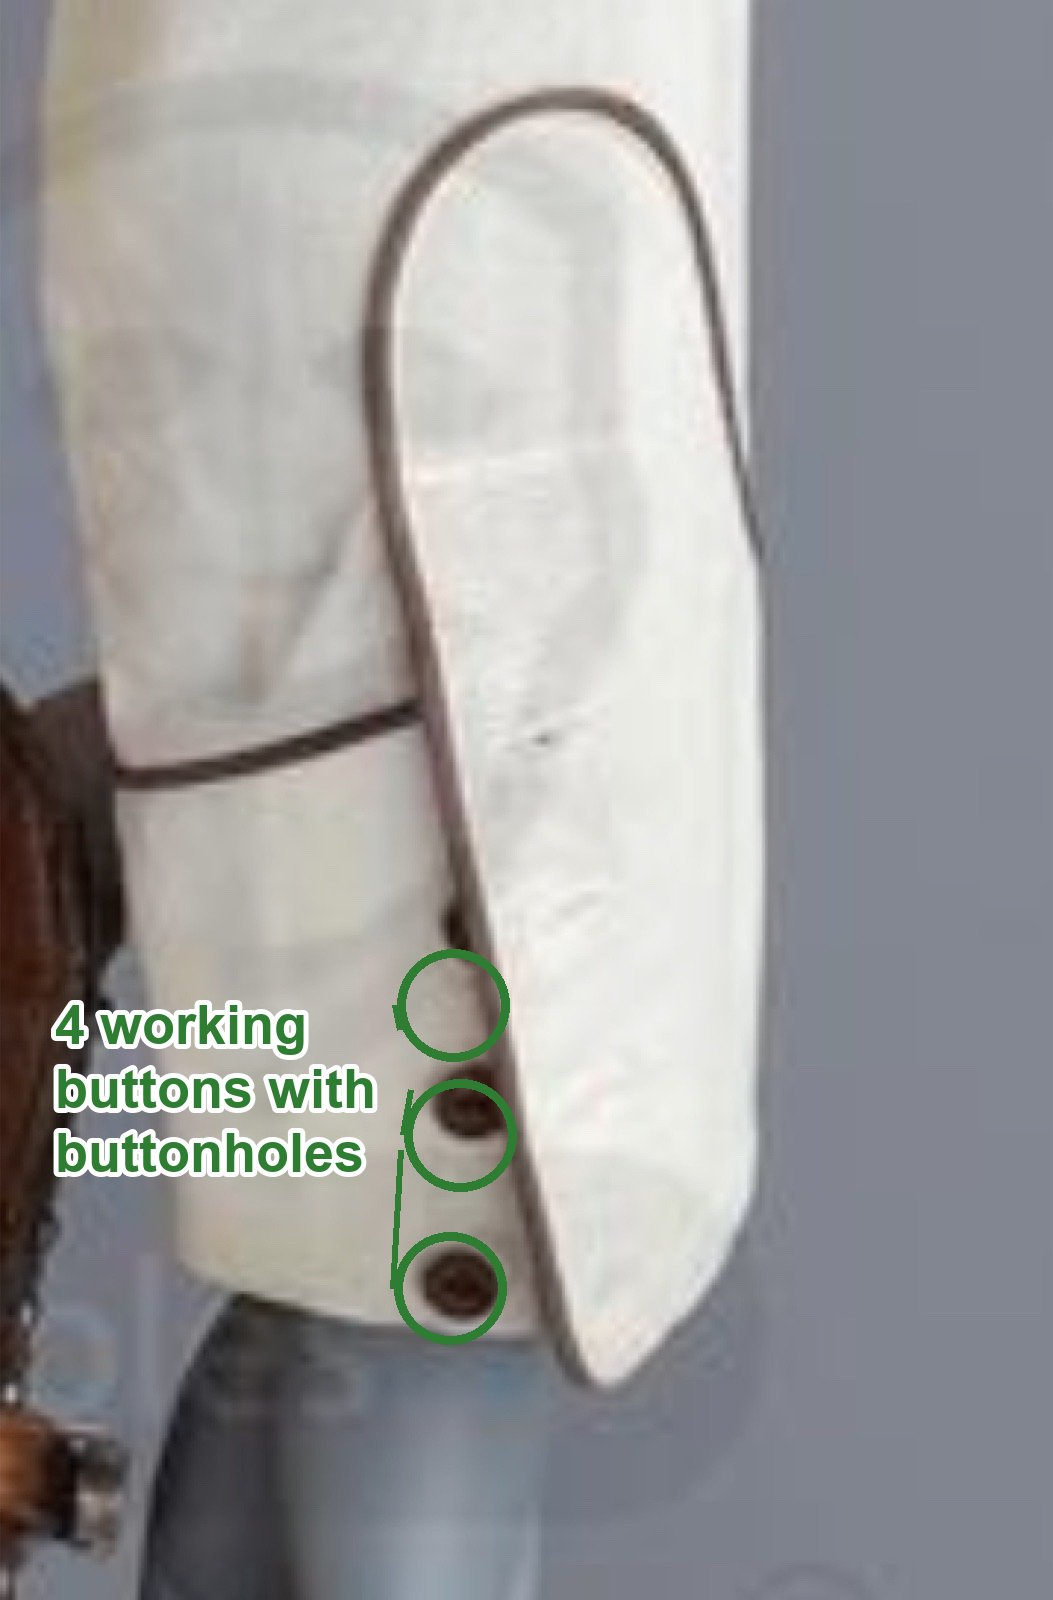
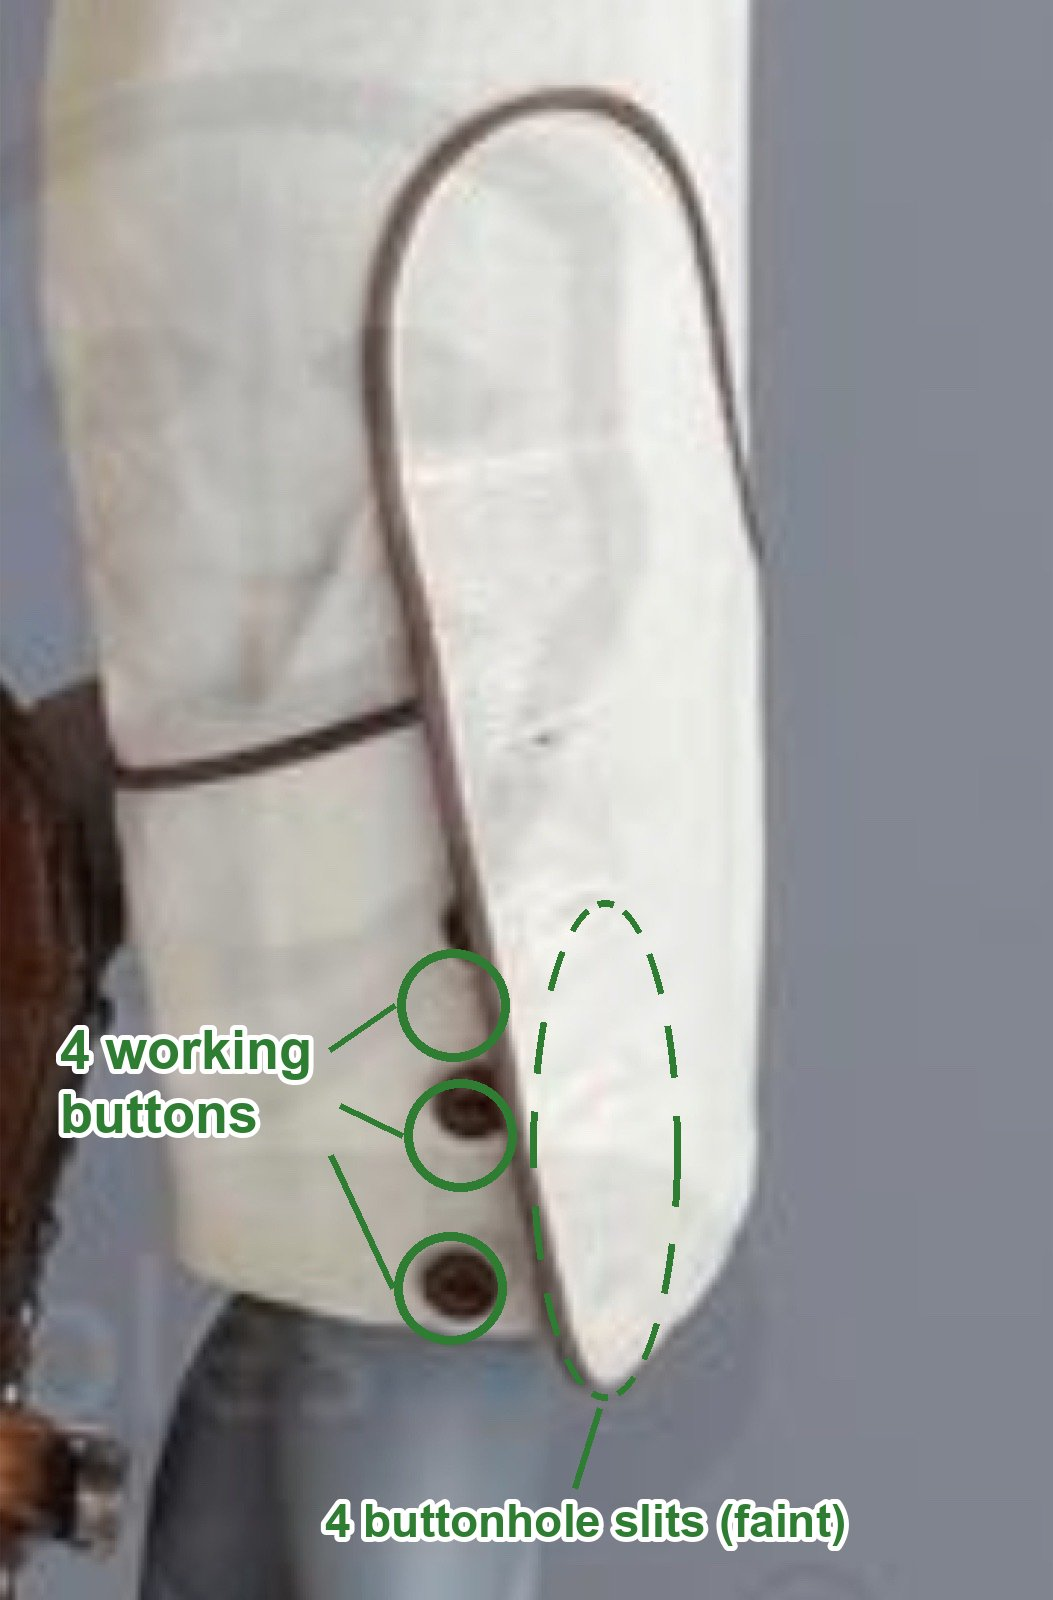
D2: buttonhole-slit zone marker, cuff-shown-open caption; D3: gap callout

diff --git a/index.html b/index.html
@@ -308,9 +308,9 @@ const PHOTOS = {
   M2: ['M2', P+'IMG_5896.jpg', 'Shirt length, from the shoulder line down to the hem: 28″.', 'good'],
   M8: ['M8', P+'IMG_5901.jpg', 'Shoulder width, seam to seam across the back: 19″.', 'good'],
   D1: ['D1', P+'detail-brown-working-buttons.jpg', 'Working brown buttons and buttonholes on the piped front placket.', 'good'],
-  D2: ['D2', P+'detail-shotgun-cuffs-annot.jpg', 'Shotgun cuff: 4 working buttons with real buttonholes (the top button is hidden under the flap in this photo).', 'good'],
+  D2: ['D2', P+'detail-shotgun-cuffs-annot.jpg', 'Cuff shown OPEN: buttons on one side, 4 faint buttonhole slits on the flap. The cuff really opens and closes.', 'good'],
   T5: ['T5', T+'cuff-details-annot.jpg', 'Both cuffs close with 4 working brown buttons spaced along the piped opening — they must really open and close.', 'good', 'natural'],
-  D3: ['D3', P+'detail-smile-pocket.jpg', 'Smile pocket: piped on both lips, sits slightly open.', 'good'],
+  D3: ['D3', P+'detail-smile-pocket-annot.jpg', 'Smile pocket: piped on both lips, with a small open gap.', 'good'],
   T3: ['T3', T+'costume-04.jpg', 'Pockets slightly open; ends taper to a small point. Brown placket buttons.', 'good'],
   T2: ['T2', T+'costume-02.jpg', 'Front-yoke piping: a small, tight curve that hugs the shoulder seam.', 'good'],
   T1: ['T1', T+'costume-03.jpg', 'Front of the original costume.', 'none'],